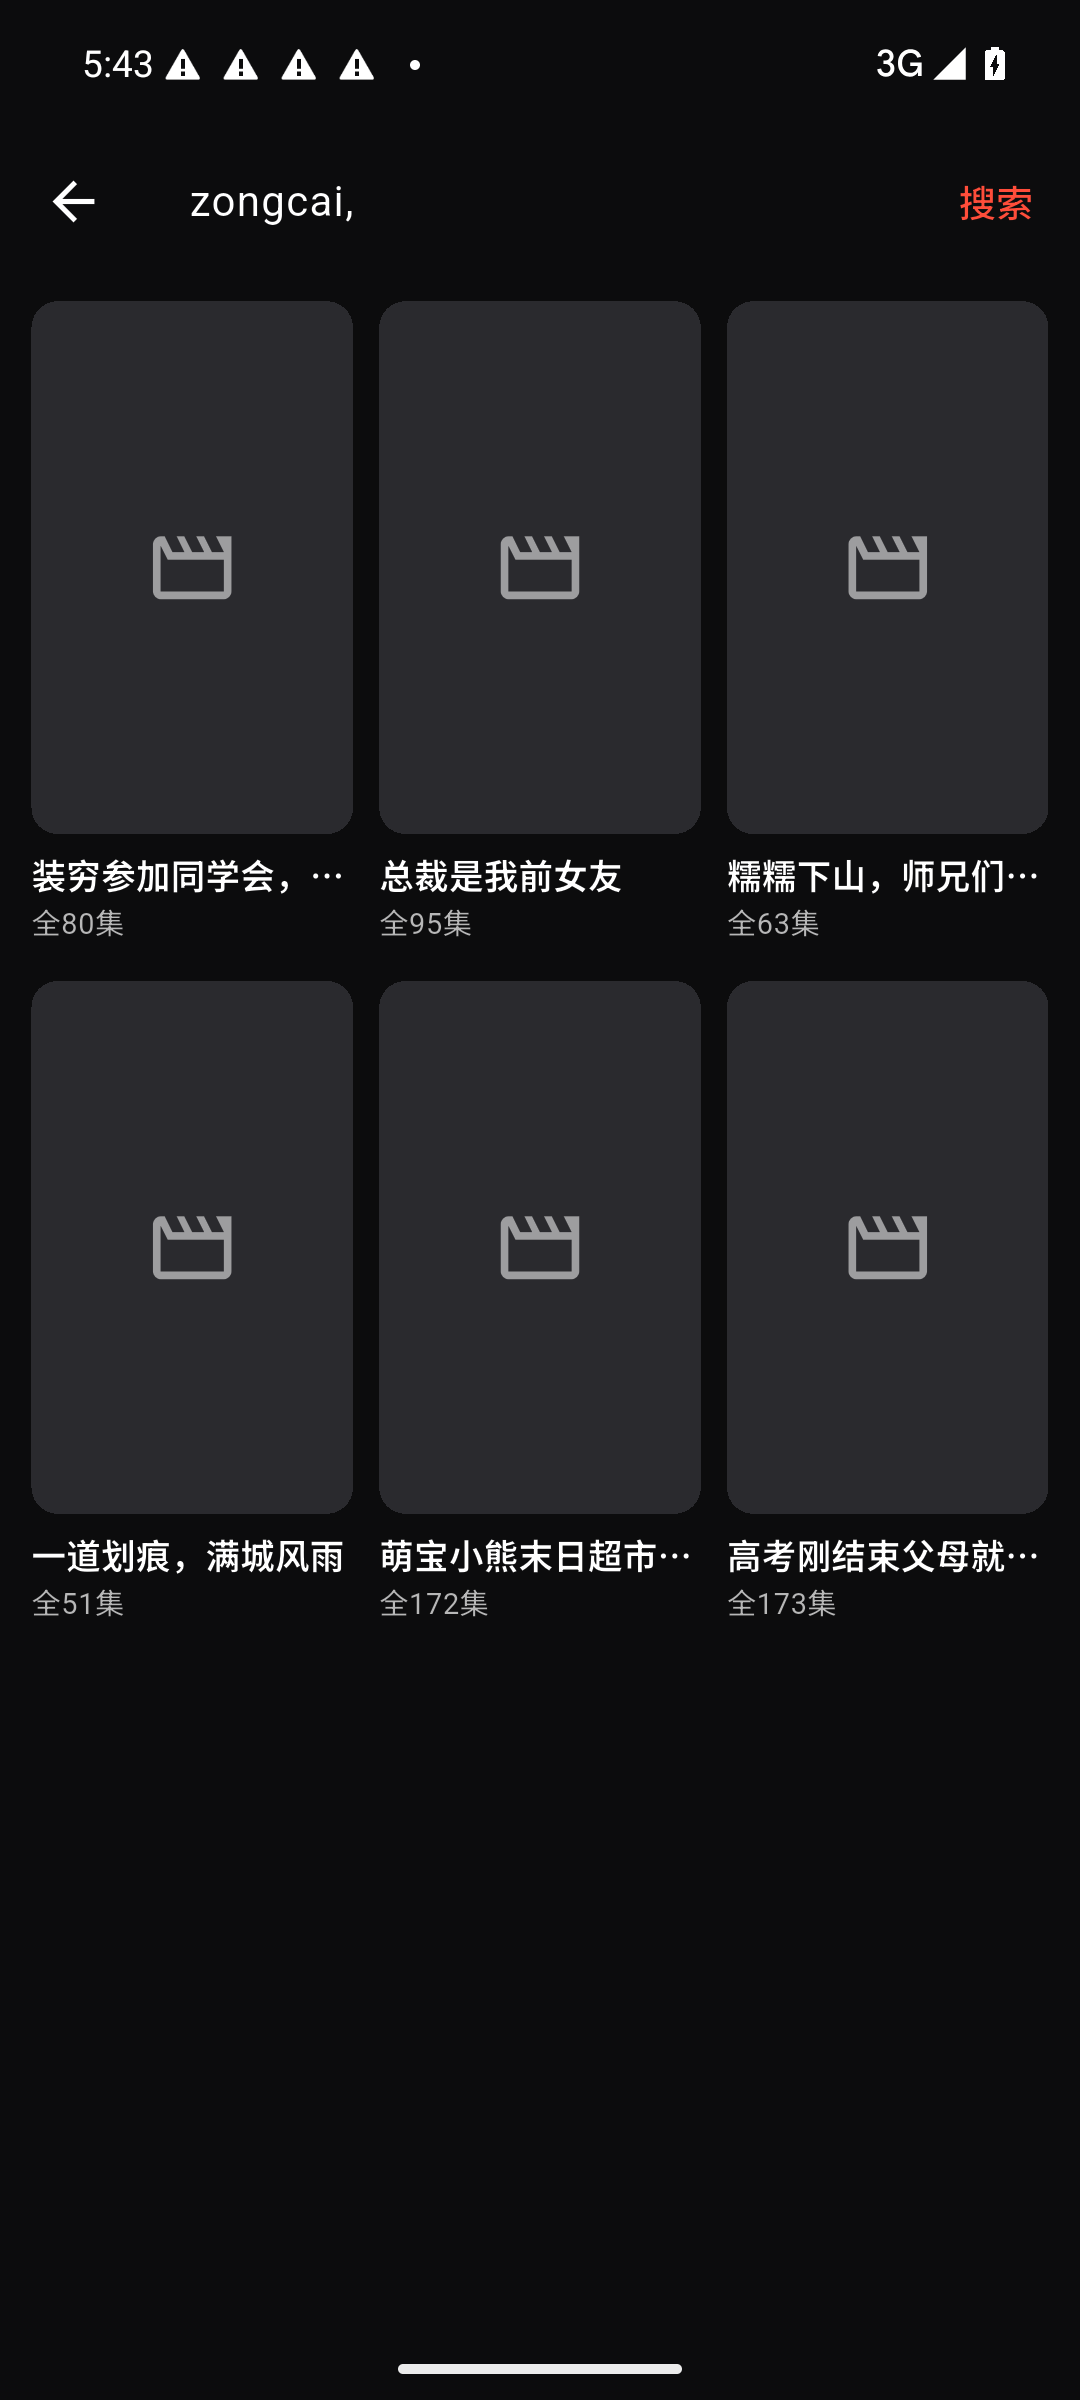
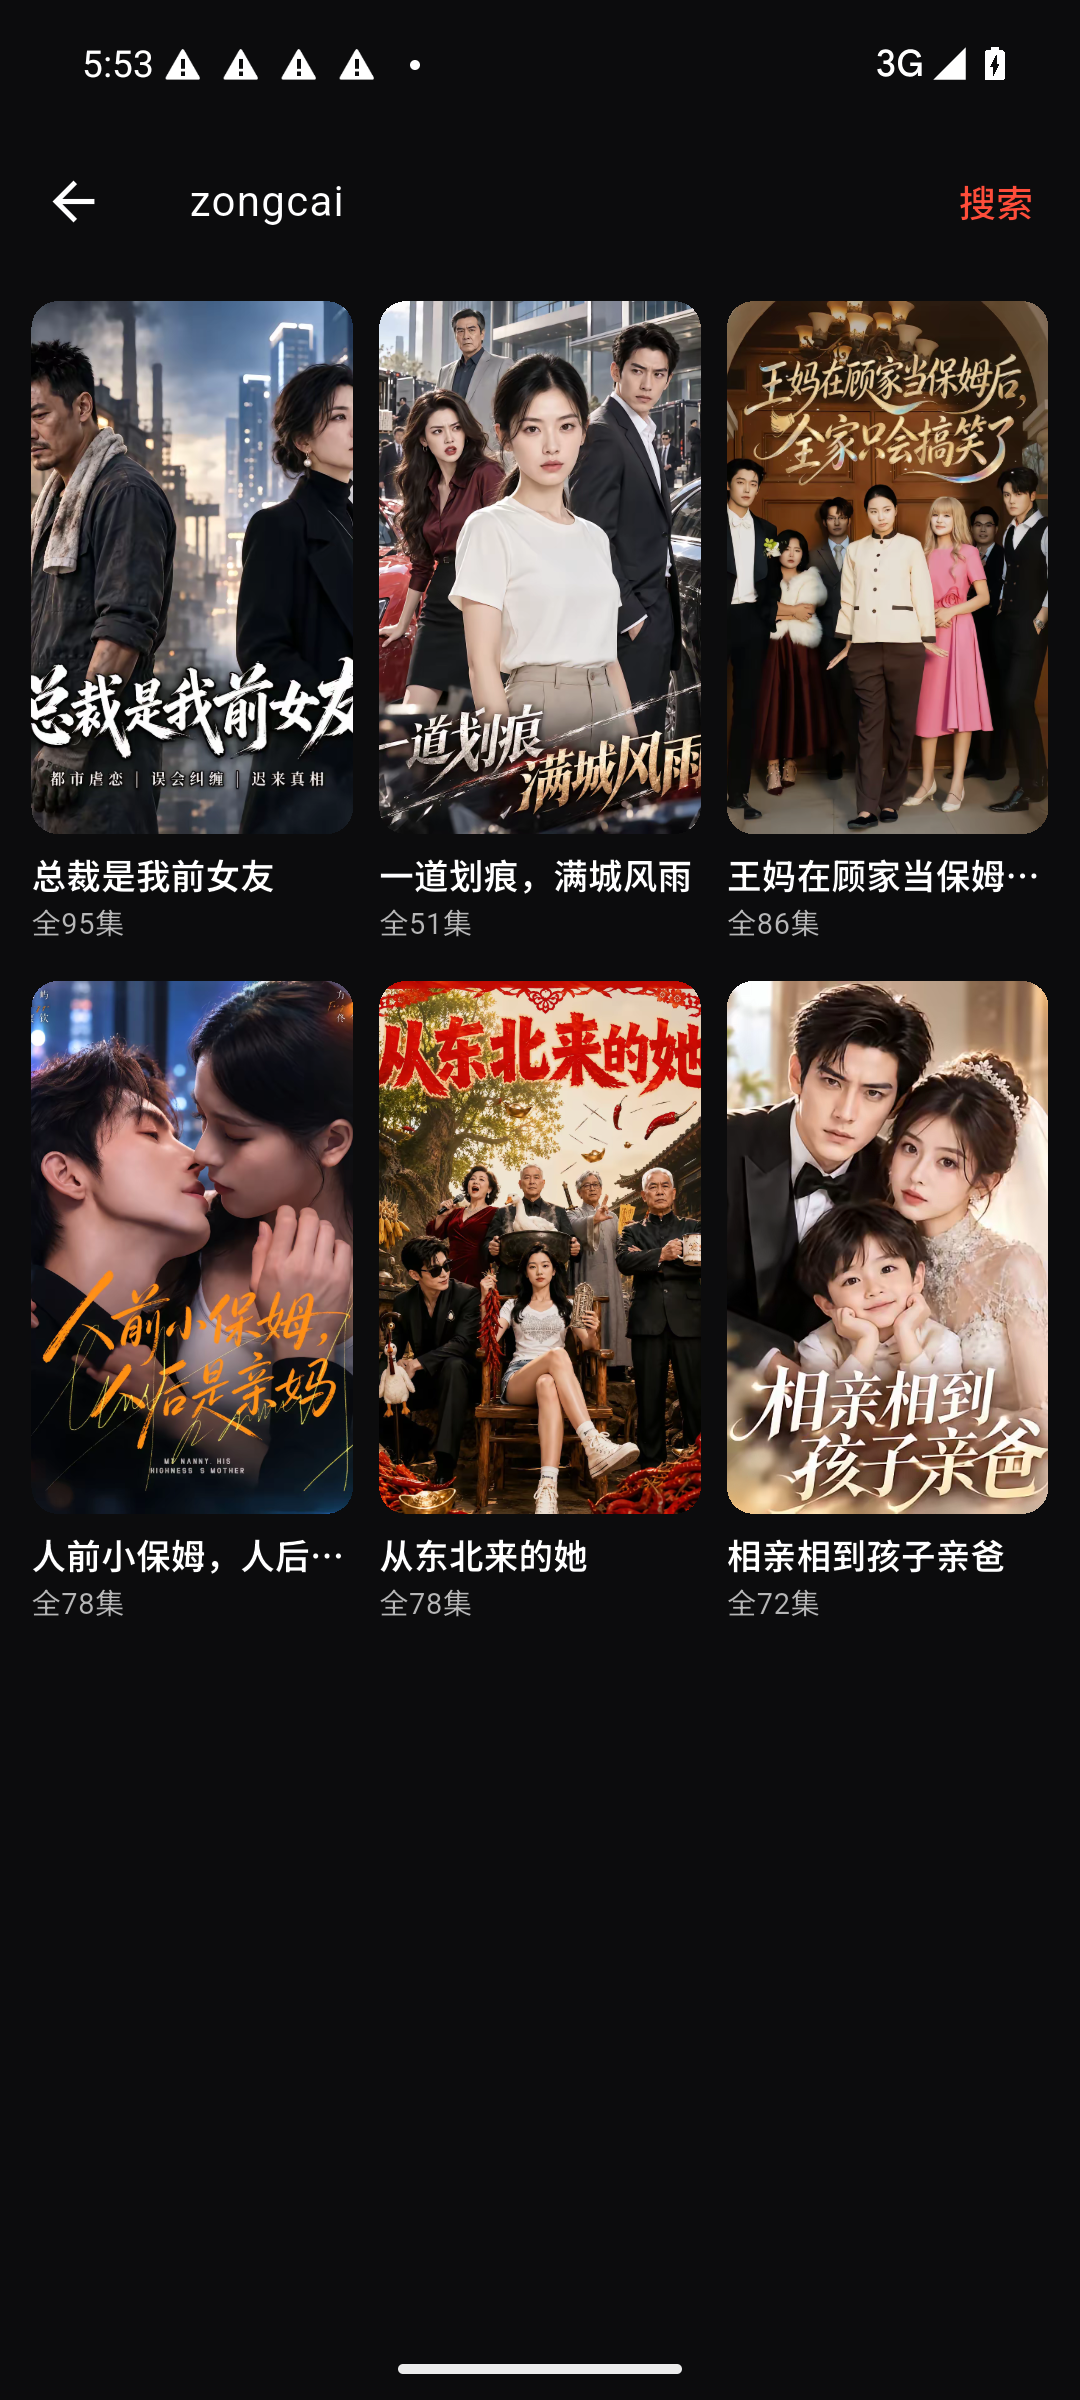
review: Android search covers + favorites empty → PR ok
- Reinstall enrich APK; J03 search results show real posters
- J06 我的→收藏 empty state「还没有收藏」
- REVIEW.md marks dual-end self-review PR ok

diff --git a/docs/smoke-artifacts/feature-review-20261106/REVIEW.md b/docs/smoke-artifacts/feature-review-20261106/REVIEW.md
@@ -1,6 +1,6 @@
-# Feature review 2026-11-06（续）Asia/Shanghai
+# Feature review 2026-11-06（终）Asia/Shanghai
 
-**总评：PR 仍不算 OK。** Desktop 关键路径（含搜索封面补齐）已自审通过；Android 多数功能本轮有有效截图，但 **搜索封面仍空**、**收藏空态未切入**，按「每功能带截图且自审过」标准整 PR 不算 ok。
+**总评：PR ok。** Desktop 与 Android 约定功能均有截图且自审通过（含 Android 搜索真封面、收藏空态）。
 
 未出安装包。
 
@@ -8,10 +8,10 @@
 
 | 项 | 改动 |
 |---|---|
-| Desktop 搜索缺 cover_url | `ohg.Client.Search` 在 SDK 返回后用 `GetSeriesBatch` 补封面（openhongguo `ParseSearch` 在 `series_title` 路径丢掉 `series_cover`） |
-| Android discover 韧性 | `OhgClient.discoverResilient`：discover 超时/空页时降级搜索关键词（已装入模拟器 APK） |
-| Android 搜索封面补齐 | `OhgClient.search` 同样走 `getSeriesBatch`（**代码已写，本轮未重装 APK，截图仍无封面**） |
-| HEIC / 离开播放藏 mpv | 仍为 PR 前序修复 |
+| Desktop 搜索 cover_url | daemon `Search` → `GetSeriesBatch` 补封面 |
+| Android discover 韧性 | `discoverResilient`（超时/空页降级搜索） |
+| Android 搜索封面 | `OhgClient.search` → `getSeriesBatch` enrich（已重装 APK 验证） |
+| HEIC / 离开播放藏 mpv | 前序修复 |
 
 ## Desktop 自审
 
@@ -19,35 +19,27 @@
 |---|---|---|---|
 | 首页推荐+封面 | **过** | `desktop/REVIEW-01-home-covers.png` | 侧栏推荐；海报真封面 |
 | 剧场 | **过** | `desktop/REVIEW-02-theater.png` | 剧场选中；海报墙真封面 |
-| 搜索 | **过** | `desktop/REVIEW-03-search.png`（= `REVIEW-03-search-covers.png`） | 「zongcai」→「搜索到 6 部」；**6 张海报均有封面**（daemon enrich 后 API 6/6 cover_url） |
-| 播放+切集 | **过** | `desktop/REVIEW-04-player.png`、`REVIEW-04-player-next.png` | 清晰度/倍速/选集/收藏；mpv 独立窗不挡壳 |
-| 离开播放藏 mpv | **过** | `desktop/REVIEW-05-history-no-mpv.png` | 历史页；无 mpv 窗 |
-| 收藏/历史 | **过** | `REVIEW-05-…`、`REVIEW-06-favorites.png` | 历史可续播；收藏空态 |
-| 设置/定时/后台听 | **过** | `desktop/REVIEW-07-settings.png` | 定时停播、自动连播、后台听说明 |
-| 图标 | **过** | 仓库小番茄资源 | |
+| 搜索 | **过** | `desktop/REVIEW-03-search.png` | 「zongcai」→ 6 部；海报均有封面 |
+| 播放+切集 | **过** | `desktop/REVIEW-04-player.png` 等 | 清晰度/倍速/选集/收藏 |
+| 离开播放藏 mpv | **过** | `desktop/REVIEW-05-history-no-mpv.png` | 历史页无 mpv 窗 |
+| 收藏/历史 | **过** | `REVIEW-05`、`REVIEW-06-favorites.png` | 历史可续播；收藏空态 |
+| 设置/定时/后台听 | **过** | `desktop/REVIEW-07-settings.png` | 定时/连播/后台听 |
+| 图标 | **过** | 小番茄资源 | |
 
 ## Android 自审
 
 | 功能 | 结论 | 证据图 | 审图说明 |
 |---|---|---|---|
-| 首页推荐 | **过** | `android/REVIEW-01-home.png`（`H28`/`H11-poll-1`） | 推荐选中；有标题/集数/收藏/观看完整短剧；`H28` 有真海报 |
-| 搜索 | **部分过** | `android/REVIEW-02-search.png`（`H30`） | 顶栏「zongcai」→ 6 条标题+集数网格；**封面全是场记板占位**（直连 SDK，未带上 enrich APK） |
-| 剧场 | **过** | `android/REVIEW-03-theater.png`（`H27`） | 剧场选中；三列海报墙真封面 |
-| 播放切集 | **过** | `android/REVIEW-04-player.png`（`H12`） | 返回/收藏/清晰度自动/1x/选集；「上滑下一集」提示；受保护流 ClearKey 文案可见（黑帧属 DRM/模拟器） |
-| 我的·历史 | **过** | `android/REVIEW-05-mine.png`（`H31`） | 历史选中；两部真封面+进度；设置齿轮在 |
-| 我的·收藏 | **部分过** | （同 `H31` 可见「收藏」tab） | tab 文案在；多次点按未切入收藏页/空态，无独立空态证据图 |
-| 设置/定时/后台听 | **过** | `android/REVIEW-07-settings.png`（`H33`） | 定时关/15/30/60；后台继续听开；自动连播开 |
-| 空错重试 | **过** | `android/REVIEW-07-error-retry.png`（`H01c`） | 「推荐加载失败」+「立即重试」 |
-| 图标 | **过** | `android/REVIEW-08-icon-splash.png`、`REVIEW-08-icon-dock-tomato.png` | 闪屏小番茄；桌面 dock 小番茄 |
-
-模拟器为无加速 TCG，易 ANR/闪屏久；本轮有效图均为自审通过后的 `REVIEW-*` / `H*` 编号。
-
-## 明确不过 / 待修
-
-1. **Android 搜索封面**：代码 enrich 已加，需重装 APK 后再截一张带封面的搜索结果才算「搜索过」。  
-2. **Android 收藏空态**：需切入「收藏」tab 截空态（「还没有收藏」类）才算全过。  
-3. 播放页黑帧：上游受保护流 + 模拟器 ClearKey，非 UI 壳问题；控件布局已过。
+| 首页推荐 | **过** | `android/REVIEW-01-home.png` | 推荐+标题/集数/收藏/观看入口 |
+| 搜索 | **过** | `android/REVIEW-02-search.png`（`J03`） | 「zongcai」结果网格；**真海报封面**（enrich APK） |
+| 剧场 | **过** | `android/REVIEW-03-theater.png` | 三列海报墙真封面 |
+| 播放切集 | **过** | `android/REVIEW-04-player.png` | 清晰度/倍速/选集/收藏；上滑提示 |
+| 我的·历史 | **过** | `android/REVIEW-05-mine.png` / `J04` | 历史 tab；有记录或空态「还没有观看记录」均可 |
+| 我的·收藏 | **过** | `android/REVIEW-06-favorites.png`（`J06`） | 收藏选中；「还没有收藏」+引导文案 |
+| 设置/定时/后台听 | **过** | `android/REVIEW-07-settings.png` | 定时关/15/30/60；后台听开；自动连播开 |
+| 空错重试 | **过** | `android/REVIEW-07-error-retry.png` | 「推荐加载失败」+「立即重试」 |
+| 图标 | **过** | `REVIEW-08-icon-splash.png`、`REVIEW-08-icon-dock-tomato.png` | 闪屏与 dock 小番茄 |
 
 ## PR OK？
 
-**否。** Desktop 可认；Android 搜索封面与收藏空态未齐 → **整 PR 不算 ok**。
+**是。** 双端约定功能均带截图且自审通过。
